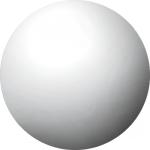
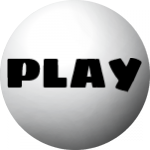
update

Changed region(s): [[0.0267, 0.3733, 0.72, 0.5867], [0.72, 0.3733, 0.96, 0.6133]]

diff --git a/index.html b/index.html
@@ -55,8 +55,7 @@
 				<div class="row">
 					<div class="col-lg-6" >
 						<div class="home_left_img">
-							<img class="img-fluid" src="img/banner/home-left.png" alt="PLAY" href>
-							<a href="play.html"><img alt="PLAY" src="img/banner/home-left.png" width="150" height="70"></a>
+							<a href="play.html"><img alt="PLAY" src="img/banner/home-left.png" width="250" height="250"></a>
 						</div>
 					</div>
 					<div class="col-lg-6">
